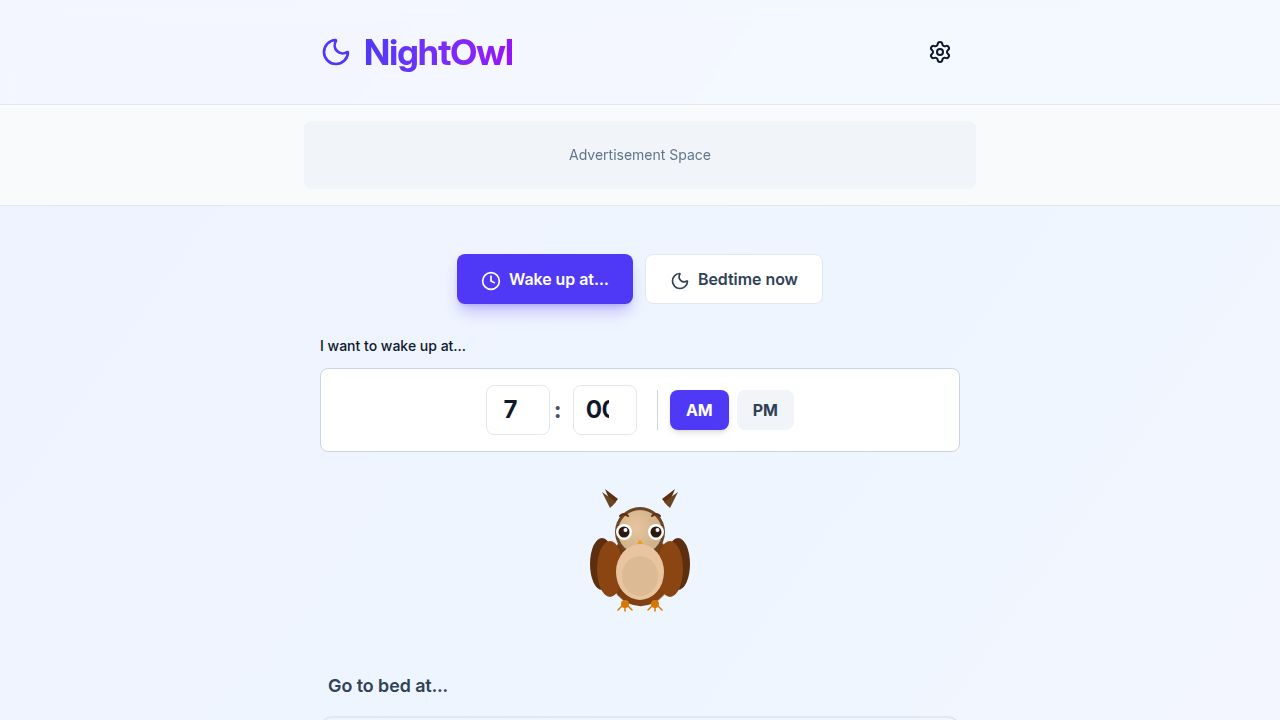
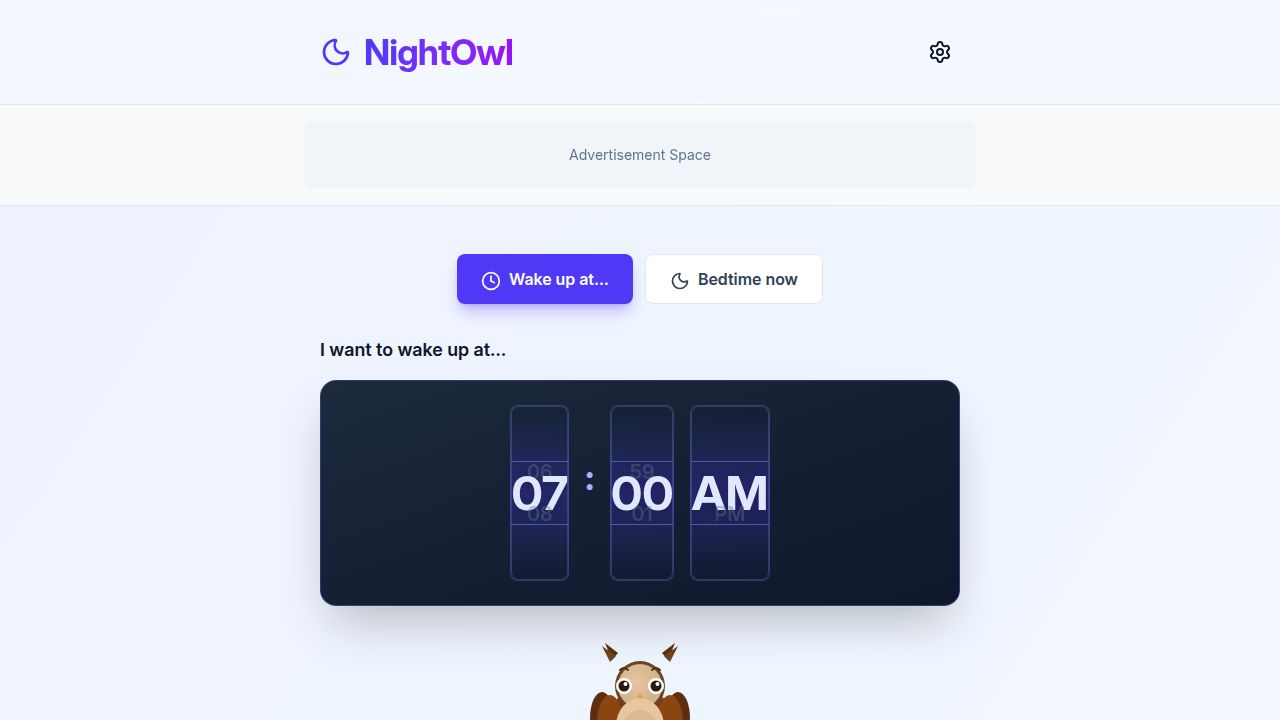
Improve scrolling speed and stability for the timer
Add touch-action none to the ScrollColumn component and increase scroll accumulation threshold to 4 to prevent container shifting and slow down scrolling.

Replit-Commit-Author: Agent
Replit-Commit-Session-Id: 82003dfa-809f-488b-abe4-6bb676cdd0c2
Replit-Commit-Checkpoint-Type: full_checkpoint
Replit-Commit-Event-Id: 1462722b-f83d-4618-8ace-2ec7308d36be
Replit-Commit-Screenshot-Url: https://storage.googleapis.com/screenshot-production-us-central1/a57929f2-7f0b-46c2-b535-1aa91c424088/82003dfa-809f-488b-abe4-6bb676cdd0c2/pjwZ8Zz
Replit-Helium-Checkpoint-Created: true

Changed region(s): [[0.25, 0.4583, 0.75, 1.0], [0.25, 0.9472, 0.3438, 0.9778]]

diff --git a/client/src/pages/SleepPlanner.tsx b/client/src/pages/SleepPlanner.tsx
@@ -63,6 +63,7 @@ const ScrollColumn = ({
 
   const handleWheel = (e: React.WheelEvent) => {
     e.preventDefault();
+    e.stopPropagation();
     const now = Date.now();
     const timeSinceLastWheel = now - lastWheelTimeRef.current;
     lastWheelTimeRef.current = now;
@@ -73,8 +74,8 @@ const ScrollColumn = ({
     // Accumulate velocity but require threshold
     scrollVelocityRef.current += rawDirection;
 
-    // Only change on significant accumulation (threshold = 2 for slower feel)
-    if (Math.abs(scrollVelocityRef.current) >= 2) {
+    // Only change on significant accumulation (threshold = 4 for much slower feel)
+    if (Math.abs(scrollVelocityRef.current) >= 4) {
       const direction = scrollVelocityRef.current > 0 ? 1 : -1;
       const newIndex = getNextIndex(direction);
       onChange(values[newIndex]);
@@ -102,7 +103,7 @@ const ScrollColumn = ({
       onTouchMove={handleTouchMove}
       onTouchEnd={() => (handleTouchStart.current = 0)}
       className="relative h-44 overflow-hidden rounded-lg bg-gradient-to-b from-slate-900/20 via-indigo-600/30 to-slate-900/20 dark:from-slate-700/40 dark:via-indigo-700/40 dark:to-slate-700/40 border border-indigo-400/30 dark:border-indigo-500/40 cursor-pointer"
-      style={{ perspective: '1000px' }}
+      style={{ perspective: '1000px', touchAction: 'none' }}
       data-testid={testId}
     >
       {/* Background glow */}
